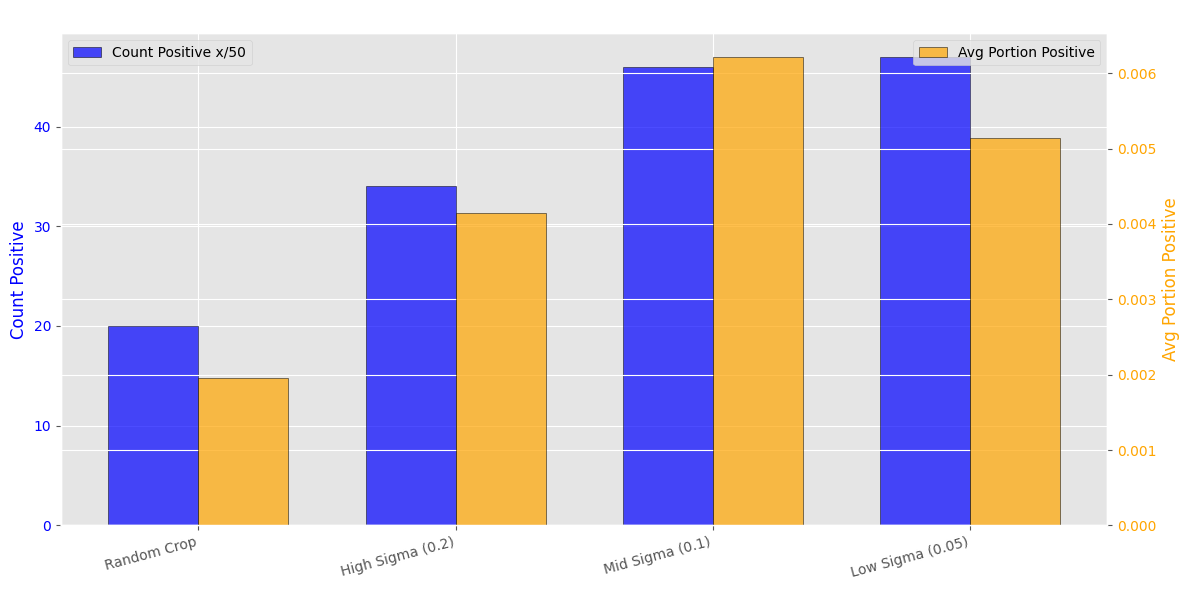
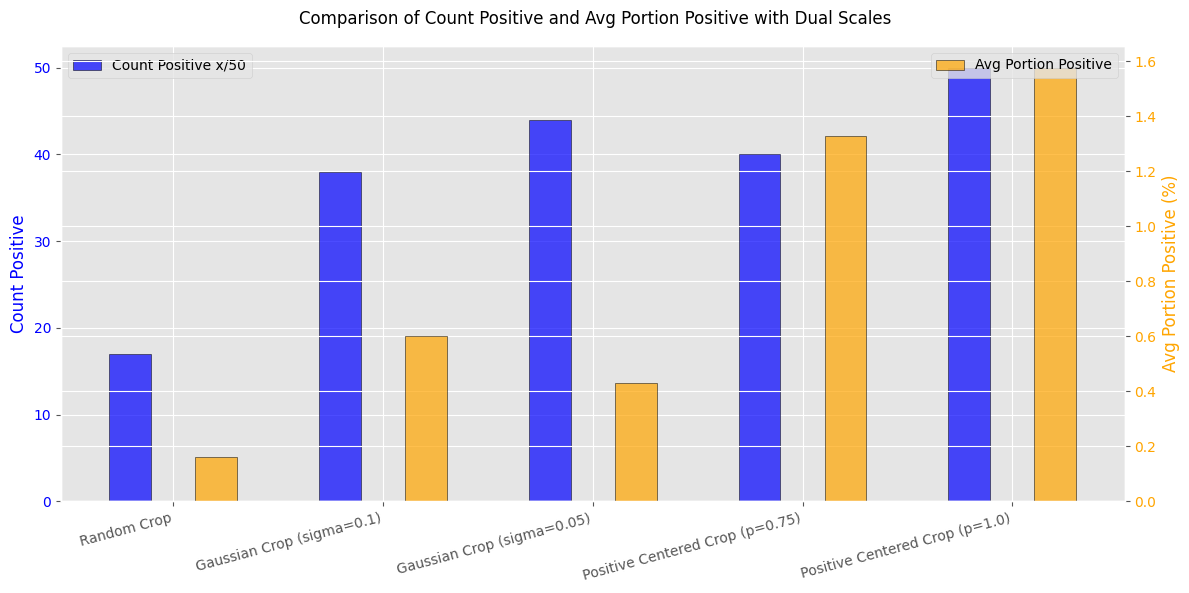
improve data preprocessing with positive center patching

diff --git a/src/ml4mip/dataset.py b/src/ml4mip/dataset.py
@@ -11,7 +11,6 @@ from hydra.core.config_store import ConfigStore
 from monai.config import KeysCollection
 from monai.transforms import (
     Compose,
-    EnsureChannelFirstd,
     LoadImaged,
     MapTransform,
     Randomizable,
@@ -27,16 +26,18 @@ from torch.utils.data import Dataset
 
 class TransformType(Enum):
     RESIZE = "resize"
-    PATCH = "patch"
+    PATCH_CENTER_GAUSSIAN = "patch_center_gaussian"
+    PATCH_POS_CENTER = "patch_pos"
     STD = "std"
 
 
 # this was calculated after observing the maximum size of the images after the resampling
-TARGET_PIXEL_DIM = (0.5, 0.5, 0.5)
+TARGET_PIXEL_DIM = (0.35, 0.35, 0.5)
 # That way we don't need to add too much padding.
-TARGET_SPATIAL_SIZE = (512, 448, 256)
+TARGET_SPATIAL_SIZE = (600, 600, 280)
 # This was determined with some experiments. It's a good value for the sigma.
 GOOD_SIGMA_RATIO = 0.1
+POS_CENTER_PROB = 0.75
 
 
 @dataclass
@@ -45,12 +46,13 @@ class DatasetConfig:
     data_dir: str = "/data/training_data"  # path to the data in the directory
     image_suffix: str = ".img.nii.gz"
     mask_suffix: str = ".label.nii.gz"
-    transform: TransformType = TransformType.PATCH
+    transform: TransformType = TransformType.PATCH_POS_CENTER
     size: tuple[int, int, int] = (96, 96, 96)
     split_ratio: float = 0.9
     target_pixel_dim: tuple[float, float, float] = TARGET_PIXEL_DIM
     target_spatial_size: tuple[int, int, int] = TARGET_SPATIAL_SIZE
     sigma_ratio: float = GOOD_SIGMA_RATIO
+    pos_center_prob: float = POS_CENTER_PROB
     max_train_samples: int | None = None
     max_val_samples: int | None = None
 
@@ -77,6 +79,7 @@ def get_dataset(cfg: DatasetConfig) -> tuple[Dataset, Dataset]:
             target_pixel_dim=cfg.target_pixel_dim,
             target_spatial_size=cfg.target_spatial_size,
             sigma_ratio=cfg.sigma_ratio,
+            pos_center_prob=cfg.pos_center_prob,
         ),
         train=True,
         split_ratio=cfg.split_ratio,
@@ -126,7 +129,8 @@ class NiftiDataset(Dataset):
         self.image_suffix: str = image_suffix
         self.mask_suffix: str = mask_suffix
         self.transform: Callable | None = transform
-        self.loader = LoadImaged(keys=["image", "mask"])
+        # Initialize the loader, very import to ensure channel first!
+        self.loader = LoadImaged(keys=["image", "mask"], ensure_channel_first=True)
 
         # Collect image and mask file paths
         image_files: list[Path] = sorted(self.data_dir.glob(f"*{self.image_suffix}"))
@@ -309,50 +313,119 @@ class TruncatedGaussianRandomCrop(Randomizable, MapTransform):
         return d
 
 
+class PositiveBiasedRandomCrop(Randomizable, MapTransform):
+    def __init__(
+        self,
+        keys,
+        roi_size,
+        positive_key,
+        positive_probability=POS_CENTER_PROB,
+        allow_missing_keys=False,
+    ):
+        """Randomly crops with a specified probability of centering the crop on a positive voxel.
+
+        Args:
+            keys: Keys of the corresponding items to be transformed.
+            roi_size: Desired output size of the crop (e.g., Depth, Height, Width for 3D).
+                      Can handle 2D, 3D, or higher-dimensional data.
+            positive_key: Key for the segmentation mask used to determine positive voxels.
+            positive_probability: Probability that the crop will center on a positive voxel.
+            allow_missing_keys: Don't raise exception if key is missing.
+        """
+        super().__init__(keys, allow_missing_keys)
+        self.roi_size = np.array(roi_size if isinstance(roi_size, list | tuple) else [roi_size])
+        self.positive_key = positive_key
+        self.positive_probability = positive_probability
+
+    def sample_center_positive(self, mask):
+        """Sample a crop center from positive voxels."""
+        img_shape = np.array(mask.shape[1:])
+        positive_mask = mask.squeeze() > 0  # Shape: (600, 600, 280)
+
+        # Create boundary masks for each axis
+        z_valid = np.arange(mask.shape[1]) >= self.roi_size[0] // 2
+        z_valid &= np.arange(mask.shape[1]) < img_shape[0] - self.roi_size[0] // 2
+
+        y_valid = np.arange(mask.shape[2]) >= self.roi_size[1] // 2
+        y_valid &= np.arange(mask.shape[2]) < img_shape[1] - self.roi_size[1] // 2
+
+        x_valid = np.arange(mask.shape[3]) >= self.roi_size[2] // 2
+        x_valid &= np.arange(mask.shape[3]) < img_shape[2] - self.roi_size[2] // 2
+
+        # Combine the positive mask with valid bounds for each axis
+        valid_mask = (
+            positive_mask & z_valid[:, None, None] & y_valid[None, :, None] & x_valid[None, None, :]
+        )
+
+        # Get positive voxel coordinates
+        positive_voxels = np.argwhere(valid_mask)
+
+        if len(positive_voxels) == 0:
+            # No positive voxels found, sample randomly
+            return self.sample_center_random(img_shape)
+
+        return random.choice(positive_voxels)
+
+    def sample_center_random(self, img_shape):
+        """Sample a random crop center."""
+        crop_center = [
+            self.R.randint(self.roi_size[i] // 2, img_shape[i] - self.roi_size[i] // 2)
+            for i in range(len(img_shape))
+        ]
+        return np.array(crop_center)
+
+    def __call__(self, data):
+        """Apply the crop transform to the input data."""
+        d = dict(data)
+
+        if not self.allow_missing_keys and not all(k in d for k in self.keys):
+            msg = f"Keys {self.keys} not found in data dictionary"
+            raise KeyError(msg)
+
+        mask = d[self.positive_key]
+        img_shape = np.array(mask.shape[1:])
+
+        crop_center = (
+            self.sample_center_positive(mask)
+            if self.R.random() < self.positive_probability
+            else self.sample_center_random(img_shape)
+        )
+
+        for key in self.keys:
+            img = d[key]
+
+            # Calculate start and end indices for cropping
+            start = crop_center - self.roi_size // 2
+            end = start + self.roi_size
+
+            # Extract the crop
+            slices = tuple(slice(s, e) for s, e in zip(start, end, strict=False))
+            d[key] = img[(slice(None), *slices)]
+
+        return d
+
+
 def get_default_transforms(
     target_pixel_dim: tuple[float, float, float],
     target_spatial_size: tuple[int, int, int],
 ) -> list[MapTransform]:
     return [
-        # 1) Ensure Channel first
-        EnsureChannelFirstd(keys=["image", "mask"]),
-        # 2) Resample the image and mask to have the same voxel spacing
+        # 1) Resample the image and mask to have the same voxel spacing
         Spacingd(
             keys=["image", "mask"],
             pixdim=target_pixel_dim,
             mode=("bilinear", "nearest"),
         ),
-        # 3) Resize the image and mask to a target spatial size without distorting the aspect ratio
+        # 2) Resize the image and mask to a target spatial size without distorting the aspect ratio
         ResizeWithPadOrCropd(
             keys=["image", "mask"],
             spatial_size=target_spatial_size,
         ),
-        # 4) Scale the intensity of the image to [0, 1]
+        # 3) Scale the intensity of the image to [0, 1]
         # this really depends on the input range. it could happen that the range is not meaningful
         ScaleIntensityd(keys=["image"], minv=0.0, maxv=1.0),
         ToTensord(keys=["image", "mask"]),
     ]
-
-
-# DEFAULT_TRANSFORM_COMPONENTS = [
-#     # 1) Ensure Channel first
-#     EnsureChannelFirstd(keys=["image", "mask"]),
-#     # 2) Resample the image and mask to have the same voxel spacing
-#     Spacingd(
-#         keys=["image", "mask"],
-#         pixdim=TARGET_PIXEL_DIM,
-#         mode=("bilinear", "nearest"),
-#     ),
-#     # 3) Resize the image and mask to a target spatial size without distorting the aspect ratio
-#     ResizeWithPadOrCropd(
-#         keys=["image", "mask"],
-#         spatial_size=TARGET_SPATIAL_SIZE,
-#     ),
-#     # 4) Scale the intensity of the image to [0, 1]
-#     # this really depends on the input range. it could happen that the range is not meaningful
-#     ScaleIntensityd(keys=["image"], minv=0.0, maxv=1.0),
-#     ToTensord(keys=["image", "mask"]),
-# ]
 
 
 def get_resize_transform(
@@ -375,7 +448,7 @@ def get_resize_transform(
     )
 
 
-def get_patch_transform(
+def get_patch_center_gaussian_transform(
     size: Sequence[int] = (96, 96, 96),
     target_pixel_dim: tuple[float, float, float] = TARGET_PIXEL_DIM,
     target_spatial_size: tuple[int, int, int] = TARGET_SPATIAL_SIZE,
@@ -396,6 +469,28 @@ def get_patch_transform(
     )
 
 
+def get_patch_positive_center_transform(
+    size: Sequence[int] = (96, 96, 96),
+    target_pixel_dim: tuple[float, float, float] = TARGET_PIXEL_DIM,
+    target_spatial_size: tuple[int, int, int] = TARGET_SPATIAL_SIZE,
+    pos_center_prob: float = POS_CENTER_PROB,
+):
+    # Make a copy of the pipeline transforms
+    transforms = get_default_transforms(target_pixel_dim, target_spatial_size)
+    return Compose(
+        transforms[:-1]
+        + [
+            PositiveBiasedRandomCrop(
+                keys=["image", "mask"],
+                positive_key="mask",
+                roi_size=size,
+                positive_probability=pos_center_prob,
+            )
+        ]
+        + transforms[-1:]
+    )
+
+
 def get_std_transform(
     target_pixel_dim: tuple[float, float, float] = TARGET_PIXEL_DIM,
     target_spatial_size: tuple[int, int, int] = TARGET_SPATIAL_SIZE,
@@ -410,14 +505,27 @@ def get_transform(
     target_pixel_dim: tuple[float, float, float] = TARGET_PIXEL_DIM,
     target_spatial_size: tuple[int, int, int] = TARGET_SPATIAL_SIZE,
     sigma_ratio: float = GOOD_SIGMA_RATIO,
+    pos_center_prob: float = POS_CENTER_PROB,
 ) -> Callable:
     """Get the transformation function based on the type."""
     size = [size] * 3 if isinstance(size, int) else size
     match type_:
         case TransformType.RESIZE:
             return get_resize_transform(size, target_pixel_dim, target_spatial_size)
-        case TransformType.PATCH:
-            return get_patch_transform(size, target_pixel_dim, target_spatial_size, sigma_ratio)
+        case TransformType.PATCH_CENTER_GAUSSIAN:
+            return get_patch_center_gaussian_transform(
+                size,
+                target_pixel_dim,
+                target_spatial_size,
+                sigma_ratio,
+            )
+        case TransformType.PATCH_POS_CENTER:
+            return get_patch_positive_center_transform(
+                size,
+                target_pixel_dim,
+                target_spatial_size,
+                pos_center_prob,
+            )
         case TransformType.STD:
             return get_std_transform(target_pixel_dim, target_spatial_size)
         case _:

diff --git a/experiments/dataset_loading.py b/experiments/dataset_loading.py
@@ -9,9 +9,9 @@
 #       format_version: '1.3'
 #       jupytext_version: 1.11.2
 #   kernelspec:
-#     display_name: Python (cake)
+#     display_name: .venv
 #     language: python
-#     name: cake
+#     name: python3
 # ---
 
 # %% [markdown]
@@ -20,18 +20,18 @@
 # - load the train/val dataset for resize and patch.
 
 # %%
-
-
 from ml4mip.dataset import DatasetConfig, TransformType, get_dataset
 from ml4mip.visualize import plot_3d_volume
 
 # %%
 cfg = DatasetConfig(
-    # data_dir = "/Users/pvmeng/Documents/ML4MIP/data/tiny_data",
-    transform= TransformType.RESIZE,
-    size = 96,
+    # data_dir = '/Users/pvmeng/Documents/ML4MIP/data/tiny_data',
+    transform=TransformType.RESIZE,
+    # size=24,
     # image_suffix="avg.nii.gz",
-    # mask_suffix="avg_seg.nii.gz"
+    # mask_suffix="avg_seg.nii.gz",
+    # target_pixel_dim=(1.0, 1.0, 1.0),
+    # target_spatial_size=(128, 128, 128),
 )
 
 ds_train_resize, _ = get_dataset(cfg)
@@ -41,7 +41,7 @@ binary_volume = mask.squeeze().numpy().astype(bool)
 plot_3d_volume(binary_volume)
 
 # %%
-cfg.transform = TransformType.PATCH
+cfg.transform = TransformType.PATCH_POS_CENTER
 ds_train_patch, ds_val = get_dataset(cfg)
 img, mask = ds_train_patch[0]
 print(img.shape, type(img), mask.shape, type(mask))

diff --git a/src/ml4mip/visualize.py b/src/ml4mip/visualize.py
@@ -251,20 +251,18 @@ def plot_comparison(
 
 # TODO: does currently only work with binary volumes
 # Update so the skeleton and graph can be displayed too.
-def plot_3d_volume(binary_volume):
+def plot_3d_volume(binary_volume, voxel_limit=100_000):
     if binary_volume is not None and binary_volume.ndim != 3:
         msg = f"Input binary volume must be 3D, but got shape: {binary_volume.shape}"
         raise ValueError(msg)
 
-    # Define the voxel limit
-    VOXEL_LIMIT = 100_000
     # Calculate the number of voxels in the original volume
     num_voxels = np.prod(binary_volume.shape)
-    if num_voxels > VOXEL_LIMIT:
-        msg = f"Volume exceeds the voxel limit ({VOXEL_LIMIT}). Downsampling for visualization."
+    if num_voxels > voxel_limit:
+        msg = f"Volume exceeds the voxel limit ({voxel_limit}). Downsampling for visualization."
         print(msg)
         # Calculate the downsampling factor
-        downsample_factor = (VOXEL_LIMIT / num_voxels) ** (1 / 3)
+        downsample_factor = (voxel_limit / num_voxels) ** (1 / 3)
         # Compute the target shape
         target_shape = tuple(int(s * downsample_factor) for s in binary_volume.shape)
         # Downsample the volume

diff --git a/src/ml4mip/workflows.py b/src/ml4mip/workflows.py
@@ -65,7 +65,8 @@ def run_training(cfg: Config) -> None:
 
     if (
         cfg.val_inference_mode == trainer.InferenceMode.SLIDING_WINDOW
-        and cfg.dataset.transform != TransformType.PATCH
+        and cfg.dataset.transform
+        not in (TransformType.PATCH_POS_CENTER, TransformType.PATCH_CENTER_GAUSSIAN)
     ):
         msg = (
             "Sliding window validation is only supported for patch-based datasets. "
@@ -104,6 +105,7 @@ def run_training(cfg: Config) -> None:
 
     # TODO: parameterize loss function and metric
     # TODO: use smooth dice loss to for empty masks
+    # TODO: change metric to other to Dice
     loss_fn = DiceCELoss(sigmoid=True)
     metrics = get_metrics()
 

diff --git a/src/ml4mip/trainer.py b/src/ml4mip/trainer.py
@@ -199,10 +199,11 @@ def validate(
                 rescaled_outputs = model(rescaled_images)
                 # Rescale the output back to the original image size
                 original_size = images.shape[2:]  # Assuming (B, C, H, W, D) format
+                # TODO: Here maybe it is better to apply sigmoid and create binary mask.
                 outputs = F.interpolate(
                     rescaled_outputs,
                     size=original_size,
-                    mode="trilinear",
+                    mode="trilinear",  # TODO: debatable if trinlinear is the best choice / maybe nearest
                     align_corners=False,
                 )
             case _:
